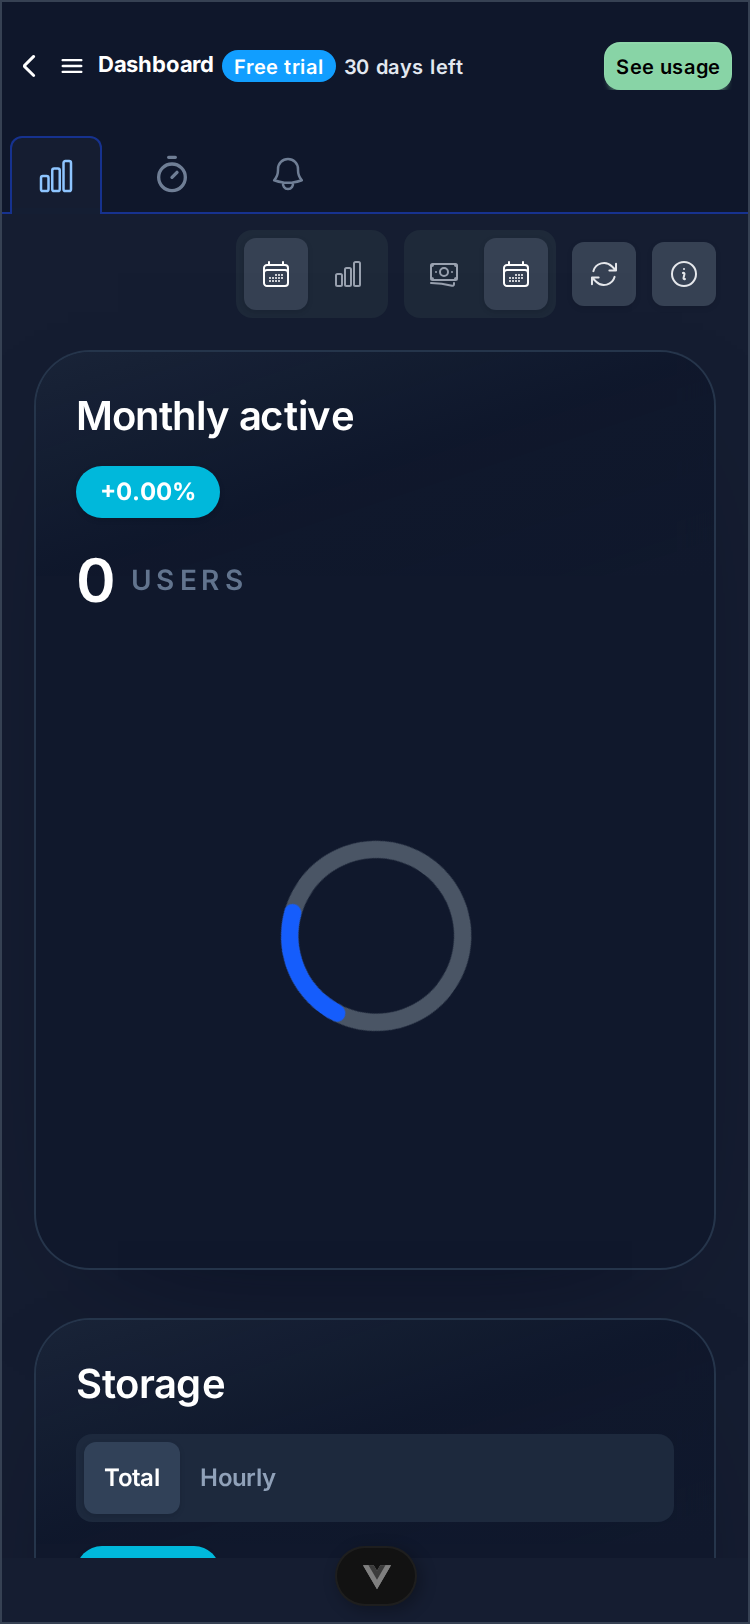
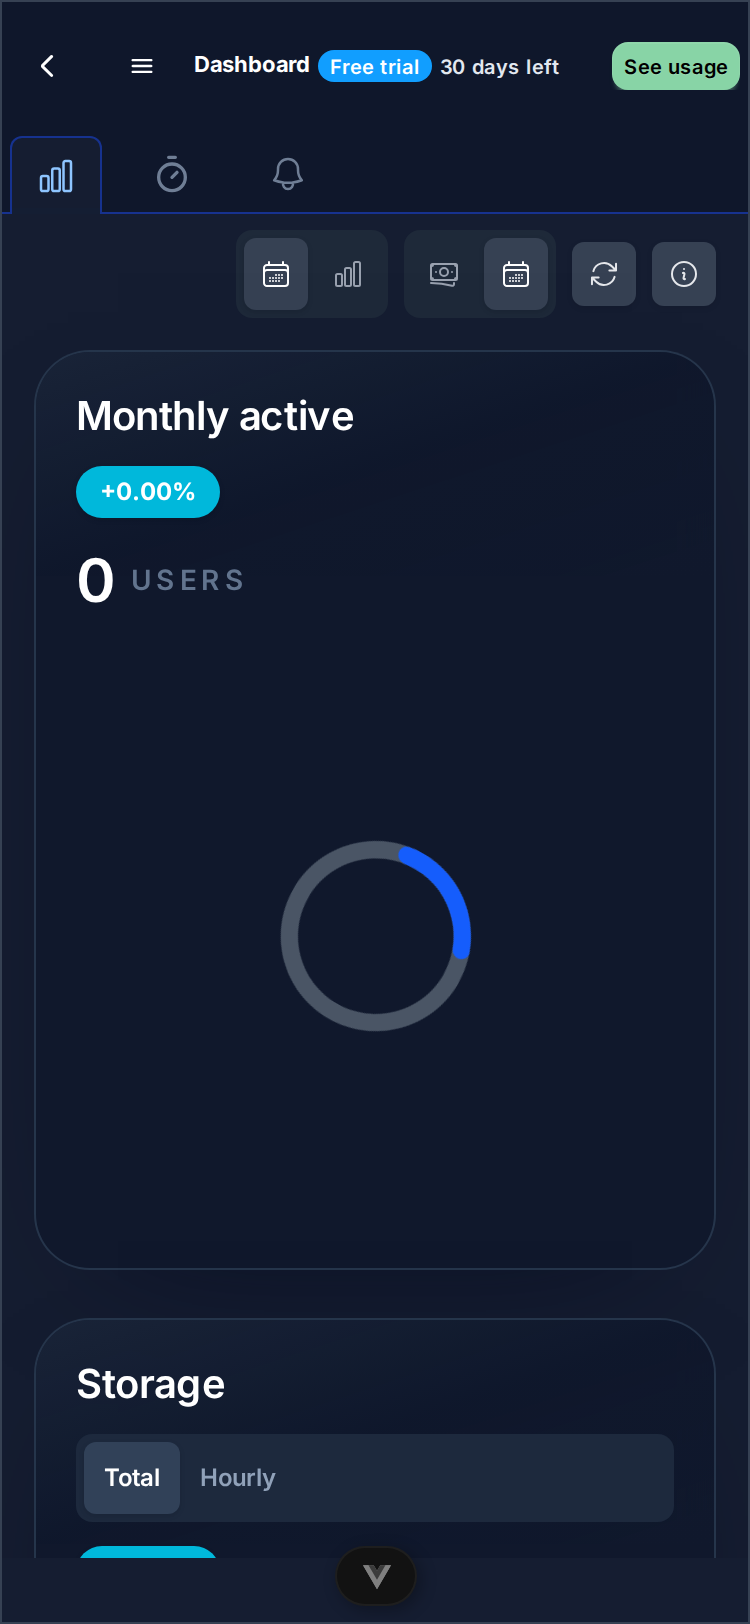
fix(frontend): separate 44px navbar touch targets without overlap
Replace -space-x-6 overlap with gap-0 independent h-11 w-11 buttons.
Tighten mobile header padding and title slot (max-w 17%) so Dashboard,
Free trial, 30 days left, and See usage stay readable at 375px.

diff --git a/src/components/Navbar.vue b/src/components/Navbar.vue
@@ -39,10 +39,10 @@ const { t } = useI18n()
 
 <template>
   <header class="relative z-40 bg-slate-100 backdrop-blur-xl dark:bg-slate-900">
-    <div class="px-2 sm:px-4 lg:px-6">
+    <div class="px-1 sm:px-4 lg:px-6">
       <div class="relative flex items-center h-16 gap-0.5 -mb-px">
         <!-- Header: Left side -->
-        <div class="z-10 flex shrink-0 items-center -space-x-6 lg:gap-3 lg:space-x-0">
+        <div class="z-10 flex shrink-0 items-center gap-0 lg:gap-3">
           <button
             v-if="displayStore.NavTitle && isMobile"
             type="button"
@@ -119,7 +119,7 @@ const { t } = useI18n()
         <!-- Mobile title: narrow inline slot so billing row keeps width -->
         <div
           v-if="displayStore.NavTitle"
-          class="min-w-0 max-w-[18%] shrink truncate px-0.5 text-[11px] font-bold leading-tight text-dark dark:text-white lg:hidden"
+          class="min-w-0 max-w-[17%] shrink truncate px-0.5 text-[11px] font-bold leading-tight text-dark dark:text-white lg:hidden"
         >
           {{ displayStore.NavTitle }}
         </div>
